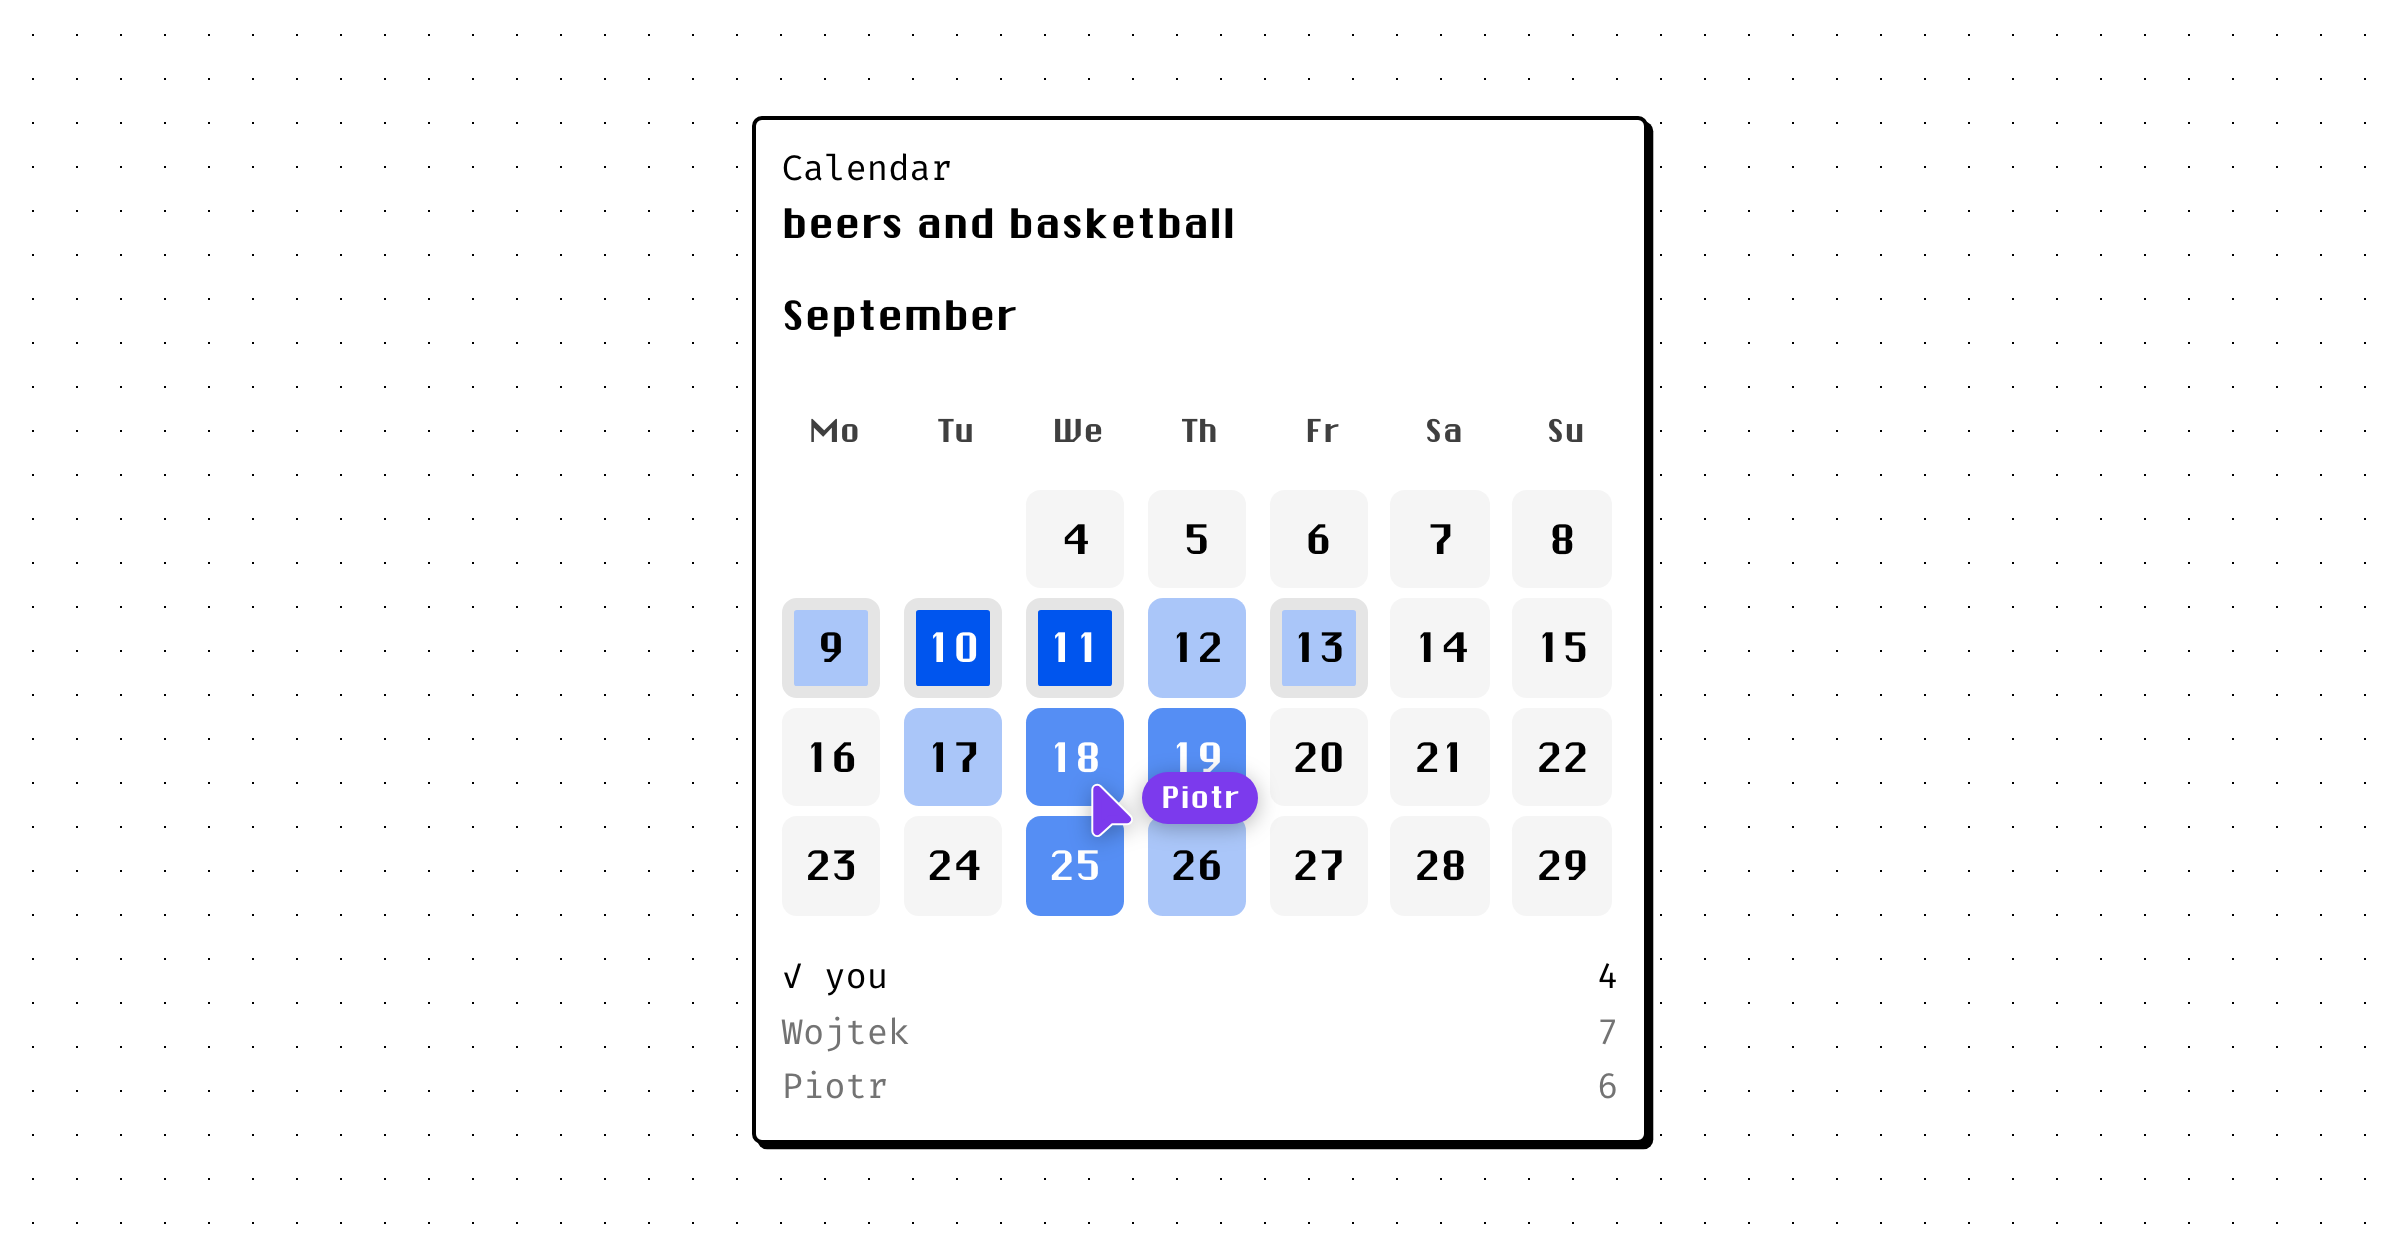
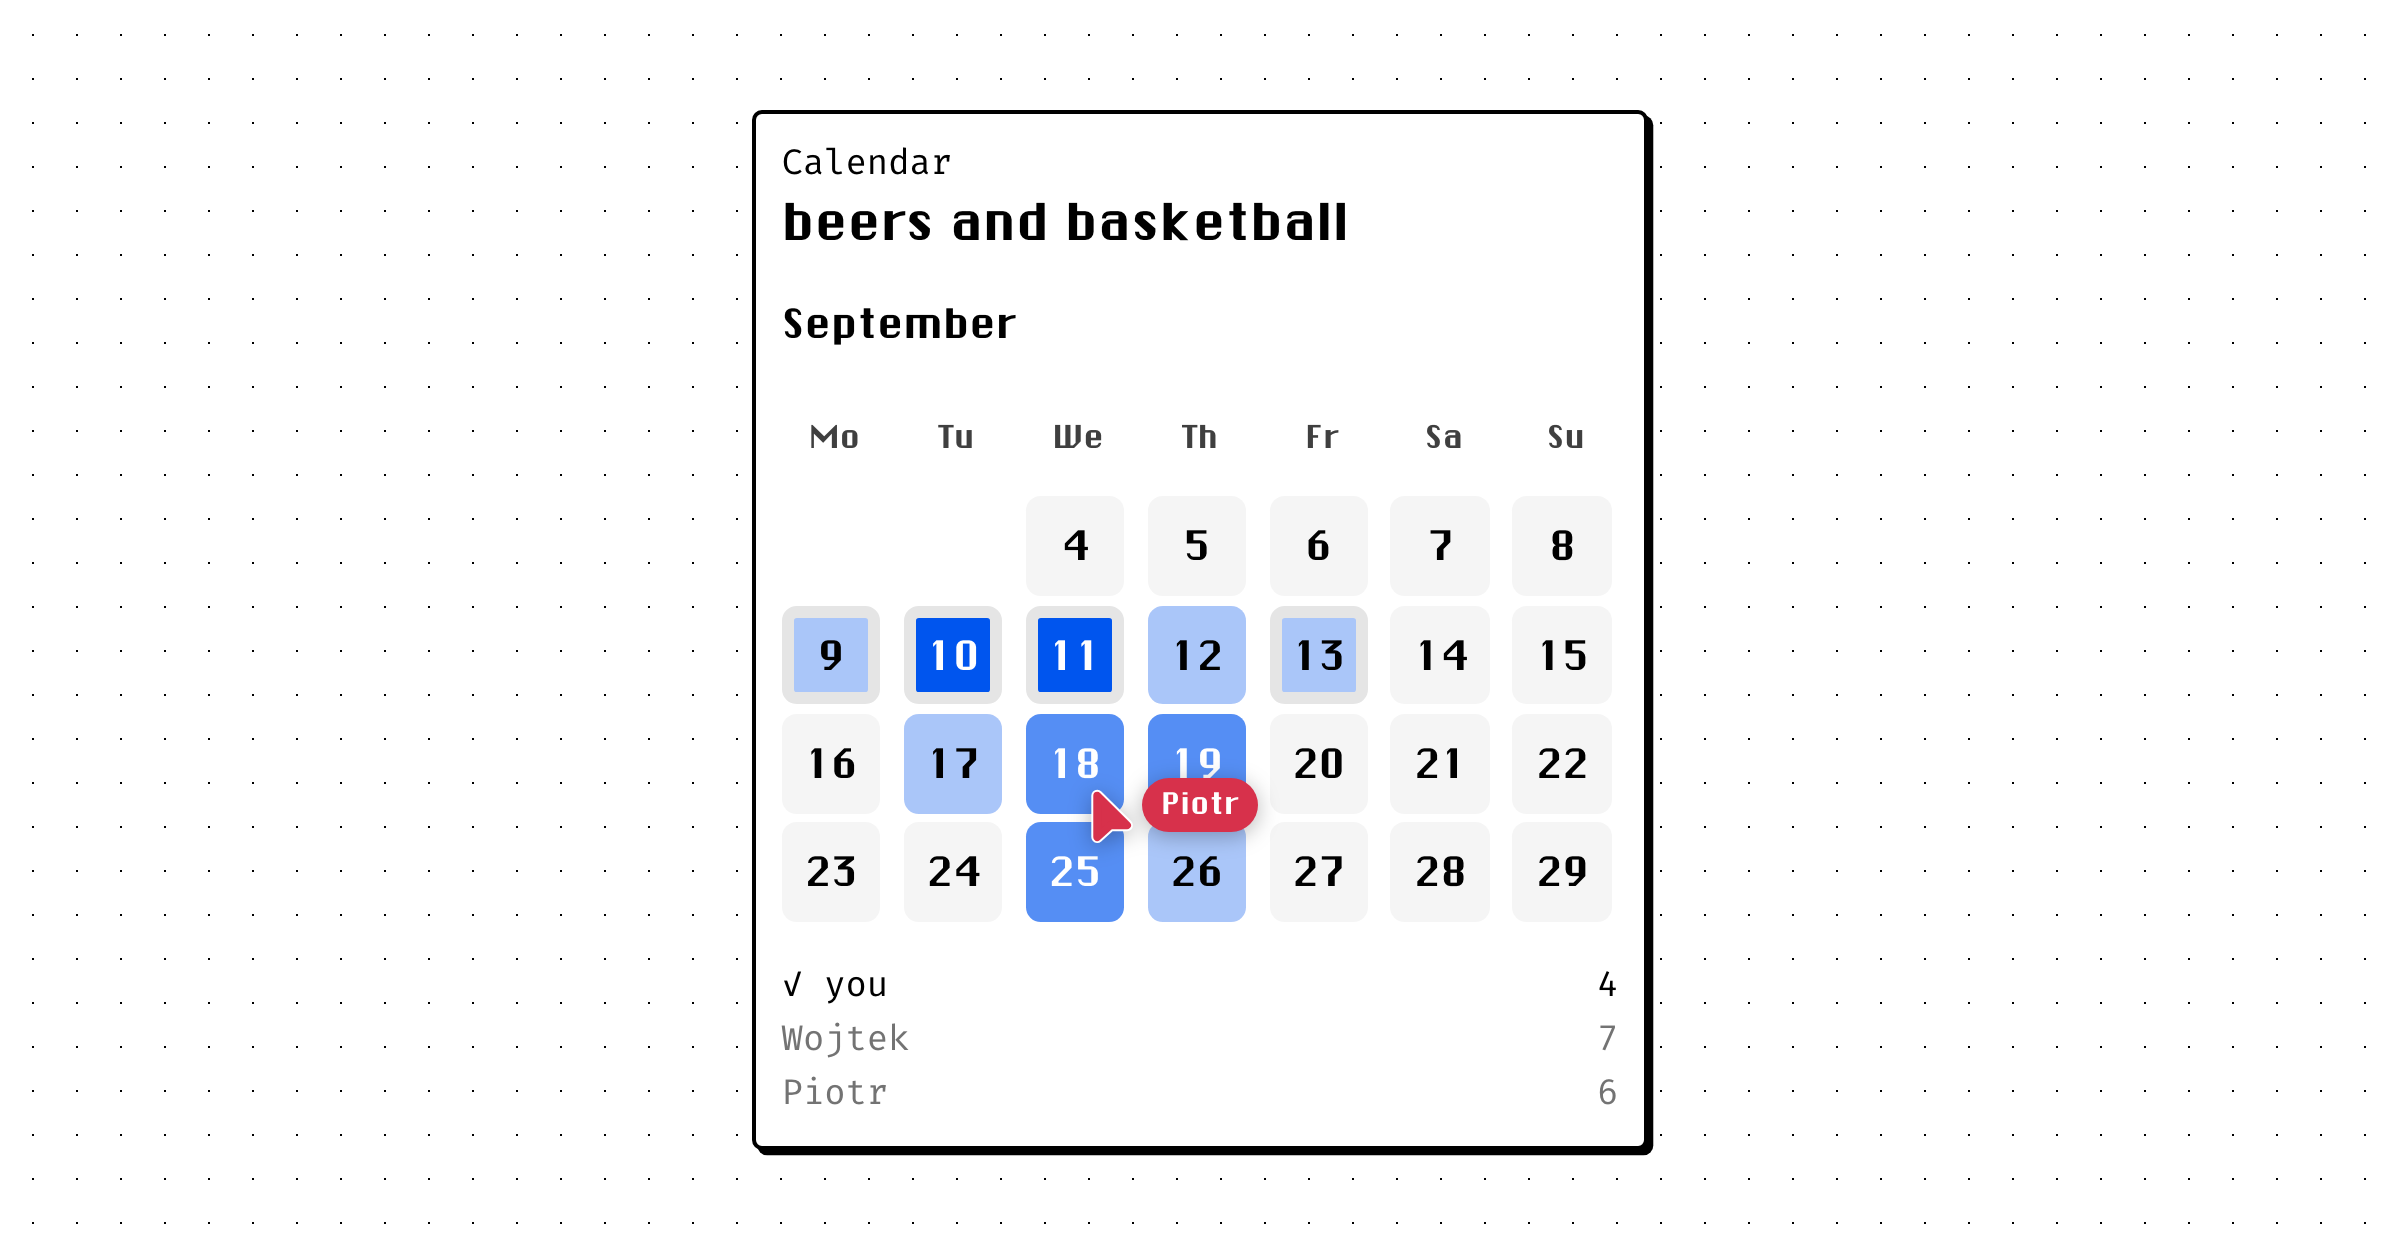
Tweak swipe demo

diff --git a/src/own/bear-fit/SwipeDemo.tsx b/src/own/bear-fit/SwipeDemo.tsx
@@ -18,24 +18,24 @@ const FRIENDS = [
   {
     hours: () => hours(17, 20),
     initials: "B",
-    tint: "linear-gradient(145deg, oklch(68% 0.16 255), oklch(56% 0.2 268))",
+    tint: "linear-gradient(145deg, oklch(68% 0.152 255), oklch(56% 0.19 268))",
   },
   {
     hours: () => hours(18, 22),
     initials: "P",
-    tint: "linear-gradient(145deg, oklch(70% 0.16 155), oklch(56% 0.2 168))",
+    tint: "linear-gradient(145deg, oklch(70% 0.152 155), oklch(56% 0.19 168))",
   },
   {
     hours: collaboratorHours,
     initials: "M",
-    tint: "linear-gradient(145deg, oklch(68% 0.17 18), oklch(56% 0.2 18))",
+    tint: "linear-gradient(145deg, oklch(68% 0.162 18), oklch(56% 0.19 18))",
   },
 ];
 
 const everyoneElse = () =>
   FRIENDS.reduce((mask, friend) => mask & friend.hours(), -1);
 
-/** M drops out of the early slots and joins the late one, then starts over. */
+/** M drops out of the early slots and joins the late one; odd turns reverse. */
 const CURSOR_SCRIPT = [17, 18, 20];
 
 const REST_BEFORE_REPLAY = 3000;
@@ -144,23 +144,29 @@ export function SwipeDemo() {
         return;
       }
 
+      setCollaboratorHours(COLLABORATOR_HOURS);
+      let turn = 0;
+
       for (;;) {
         while (!visible && !stopped) await sleep(300);
         if (stopped) return;
 
-        setCollaboratorHours(COLLABORATOR_HOURS);
-        await sleep(600);
+        const script = turn & 1 ? CURSOR_SCRIPT.toReversed() : CURSOR_SCRIPT;
 
-        const { x, y } = anchor(CURSOR_SCRIPT[0]!);
-        moveCursor(x + 60, y + 40, 0);
+        if (turn === 0) {
+          await sleep(600);
+          const { x, y } = anchor(script[0]!);
+          moveCursor(x + 60, y + 40, 0);
+        }
 
-        for (const hour of CURSOR_SCRIPT) {
+        for (const hour of script) {
           if (stopped) return;
           await runStep(hour);
         }
 
         setCursorState("gone");
         await sleep(REST_BEFORE_REPLAY);
+        turn++;
       }
     };
 
@@ -205,7 +211,7 @@ export function SwipeDemo() {
           </For>
           <div
             aria-hidden="true"
-            class="pointer-events-none absolute top-0 left-0 z-20 h-2 w-0 rounded-full opacity-0 blur-[5px]"
+            class="pointer-events-none absolute top-0 left-0 z-20 h-1.5 w-0 rounded-full opacity-0 blur-[1px]"
             ref={trail}
           />
           <Cursor name="M" ref={cursor} state={cursorState()} />

diff --git a/src/own/bear-fit/OgImage.tsx b/src/own/bear-fit/OgImage.tsx
@@ -30,7 +30,7 @@ export function OgImage() {
     >
       <div class="relative w-[340px] zoom-[1.32] rounded-sm border-2 border-black bg-white p-[10px] shadow-[2px_2px_#000]">
         <p class="font-mono text-sm">Calendar</p>
-        <h1 class="mb-4 text-base leading-[1.3333] font-normal">
+        <h1 class="mb-4 text-xl leading-[1.3333] font-normal">
           beers and basketball
         </h1>
         <p class="mb-4 leading-[1.3333]">September</p>
